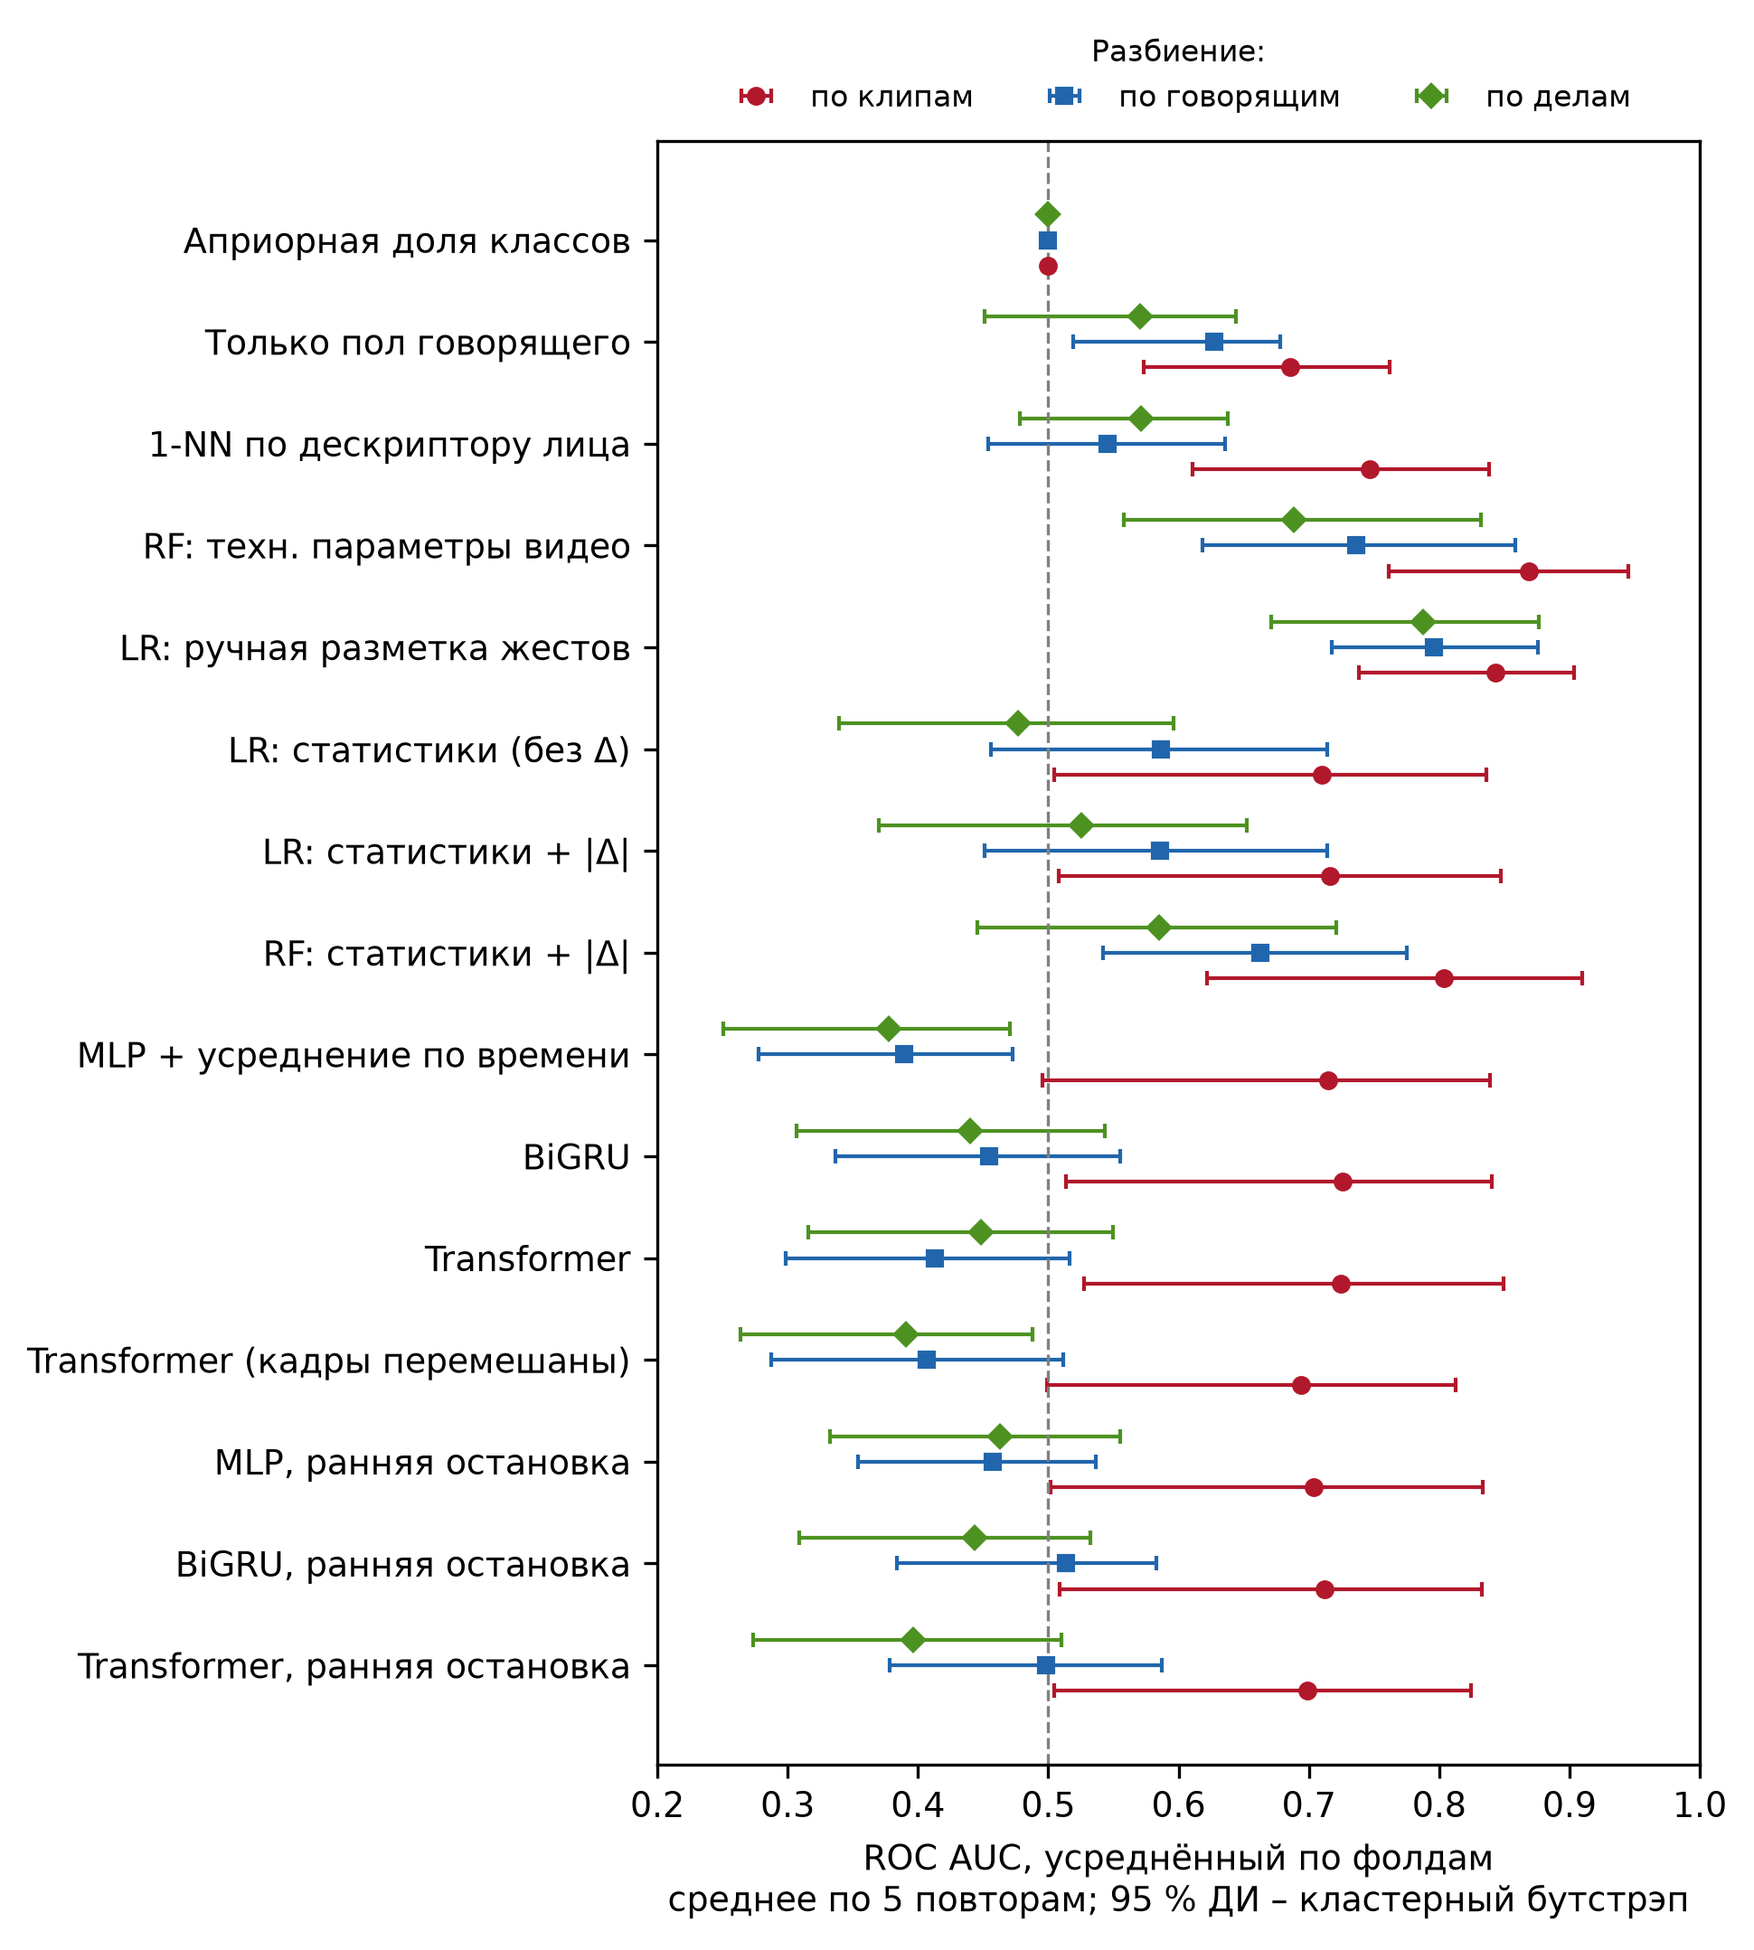
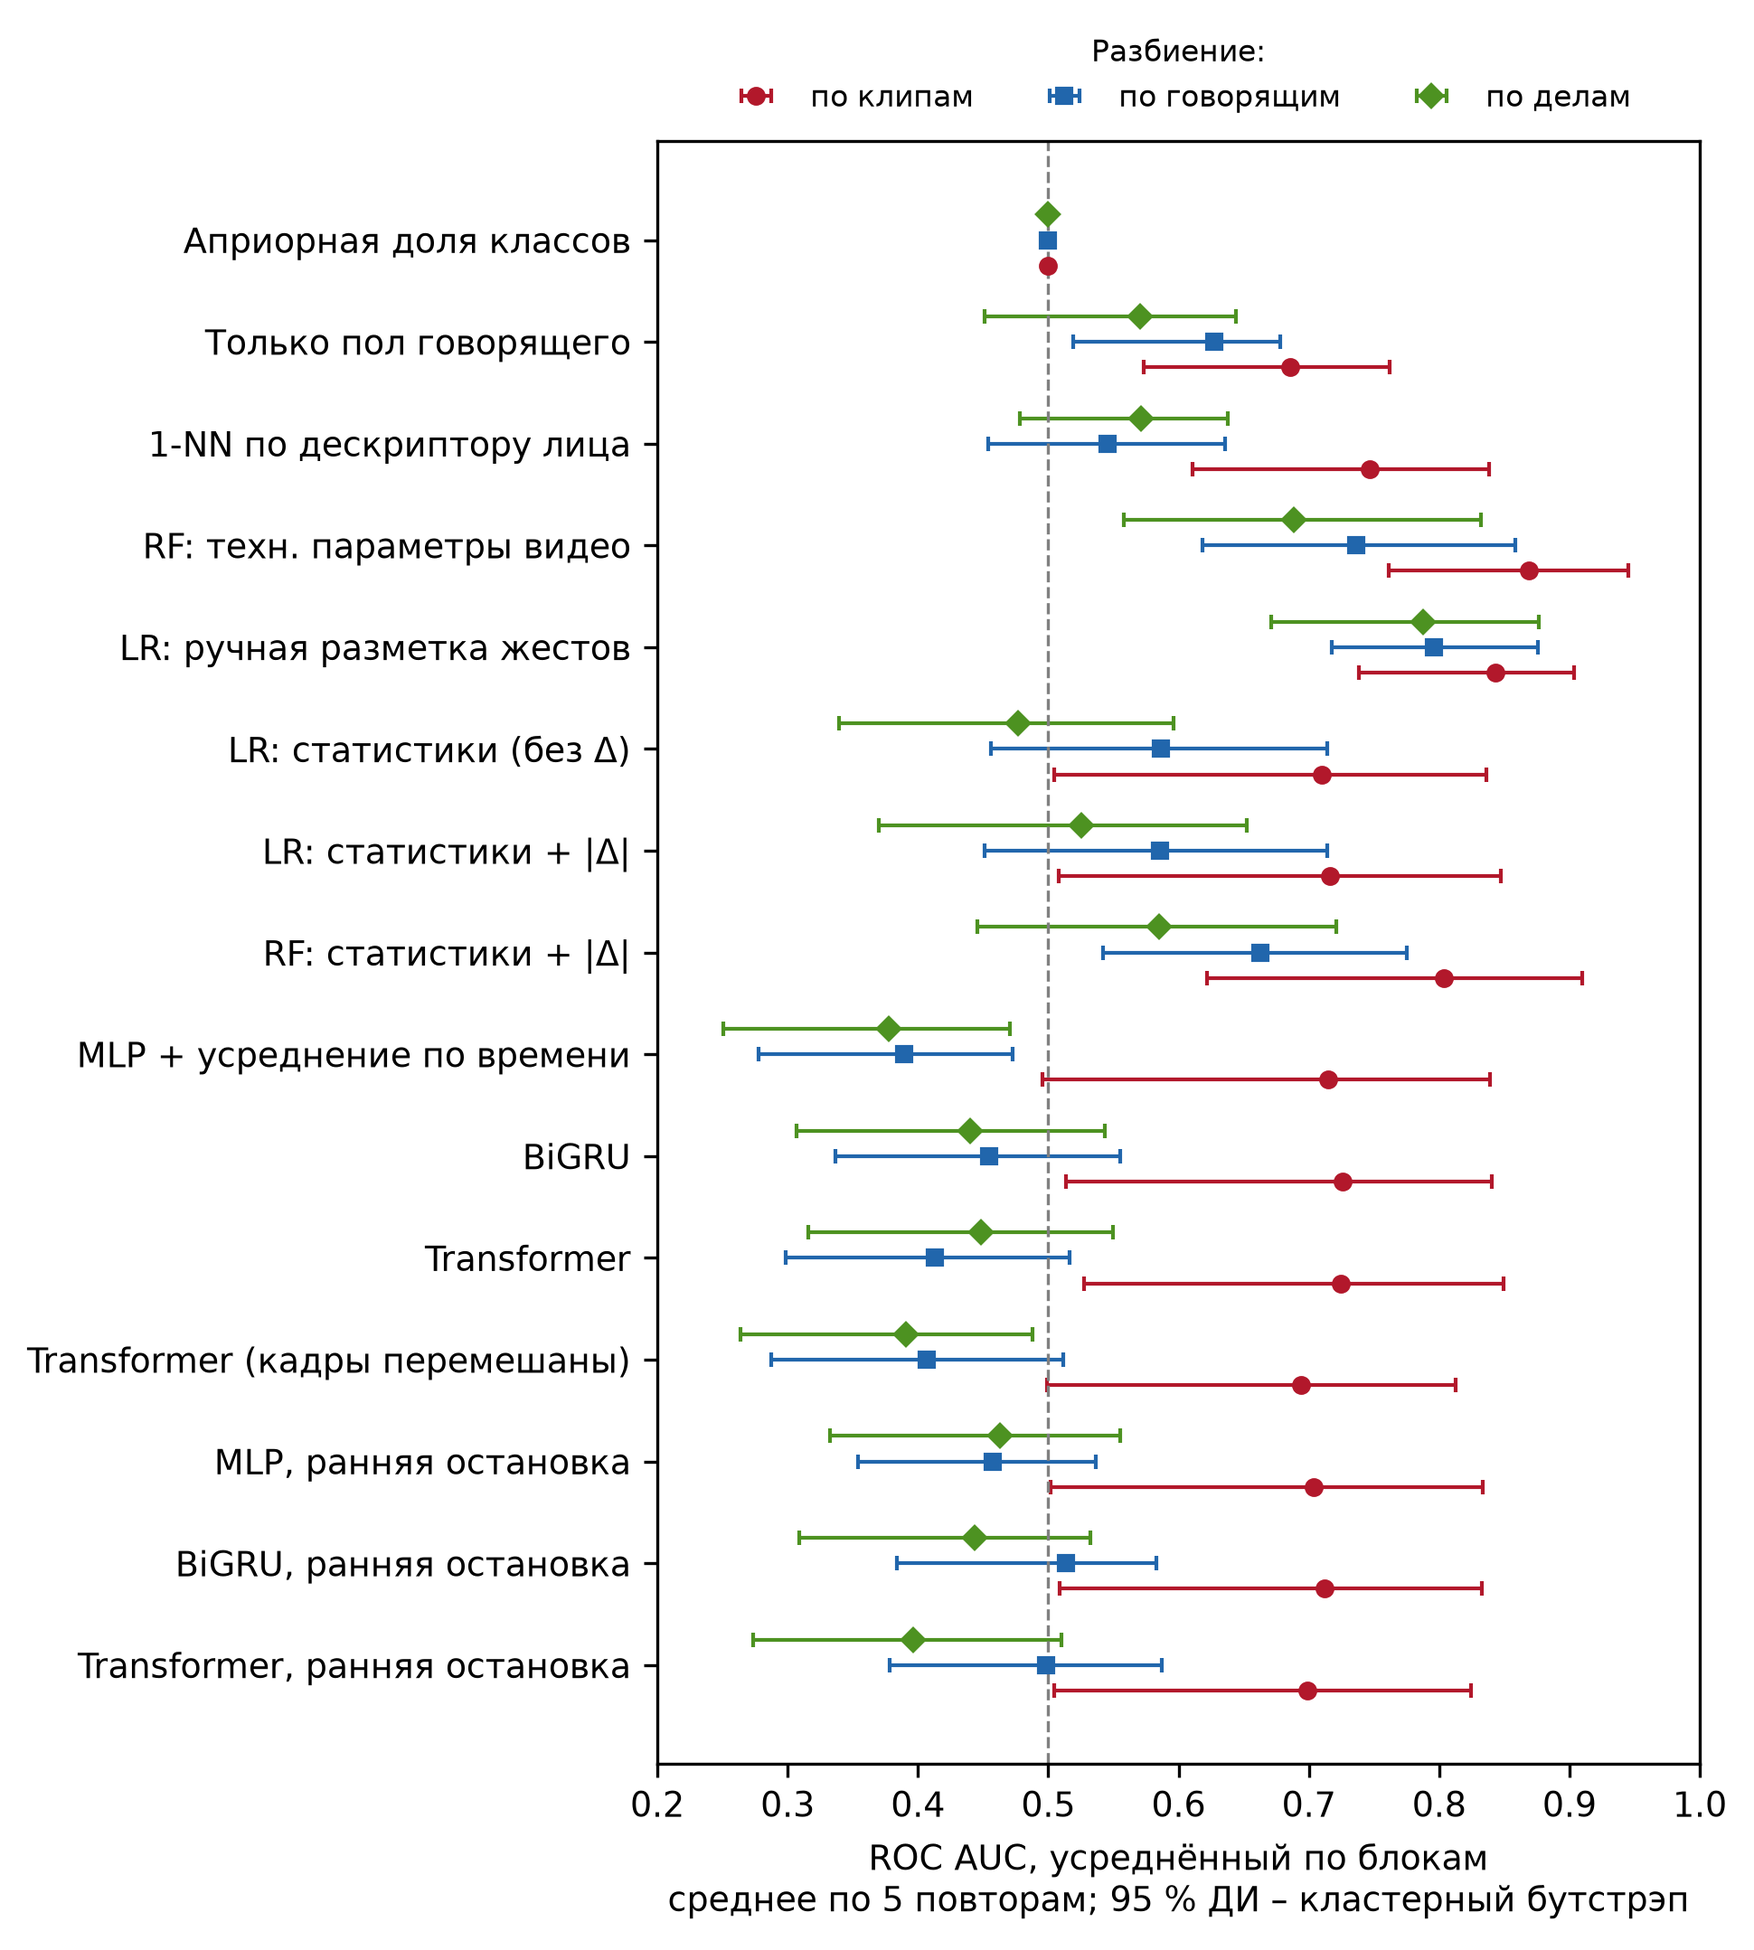
Use Russian term «блок» instead of «фолд» in docs and figure labels

Changed region(s): [[0.4948, 0.9008, 0.866, 0.9629], [0.433, 0.9008, 0.4639, 0.9318]]

diff --git a/src/figures.py b/src/figures.py
@@ -44,7 +44,7 @@ def main():
     tab = pd.read_csv(res / "aggregate/main_table.csv")
     plt.rcParams.update({"font.size": 9, "font.family": "DejaVu Sans"})
 
-    for metric, xlabel, chance in (("auc", "ROC AUC", 0.5), ("auc_fold", "ROC AUC, усреднённый по фолдам", 0.5),
+    for metric, xlabel, chance in (("auc", "ROC AUC", 0.5), ("auc_fold", "ROC AUC, усреднённый по блокам", 0.5),
                                    ("bacc", "Сбалансированная точность", 0.5)):
         models = [m for m in cfg["models"] if m in set(tab.model)]
         fig, ax = plt.subplots(figsize=(6.6, 0.42 * len(models) + 1.0))
@@ -84,7 +84,7 @@ def main():
         ax.axvline(0, color="grey", ls="--", lw=0.8)
         ax.set_yticks(yv)
         ax.set_yticklabels([MODEL_RU.get(m, m) for m in c.index])
-        ax.set_xlabel("ΔAUC (усреднённый по фолдам) = по клипам − по говорящим\n95 % ДИ, кластерный бутстрэп по говорящим")
+        ax.set_xlabel("ΔAUC (усреднённый по блокам) = по клипам − по говорящим\n95 % ДИ, кластерный бутстрэп по говорящим")
         fig.tight_layout()
         fig.savefig(out / "fig_leakage_inflation.png", dpi=300, bbox_inches="tight")
         plt.close(fig)

diff --git a/README.md b/README.md
@@ -22,8 +22,8 @@ predictions, metrics with cluster-bootstrap CIs, figures and logs. Documentation
 
 ## Основной результат
 
-ROC AUC, вычисленный внутри тестовых фолдов и усреднённый: среднее по 5 повторам 10-кратной
-кросс-валидации [95 % ДИ, кластерный бутстрэп по говорящим, B = 1000]. Полная таблица –
+ROC AUC, вычисленный внутри тестовых блоков и усреднённый: среднее по 5 повторам 10-кратной
+кросс-валидации (данные делятся на 10 блоков, каждый из которых по очереди служит тестовым) [95 % ДИ, кластерный бутстрэп по говорящим, B = 1000]. Полная таблица –
 `results/aggregate/main_table.md`, парные сравнения – `results/aggregate/paired_comparisons.md`.
 
 | Модель | По клипам | По говорящим | По делам |
@@ -39,11 +39,11 @@ ROC AUC, вычисленный внутри тестовых фолдов и у
 | Transformer | 0,72 [0,53; 0,85] | 0,41 [0,30; 0,52] | 0,45 [0,32; 0,55] |
 | Transformer, ранняя остановка | 0,70 [0,50; 0,82] | 0,50 [0,38; 0,59] | 0,40 [0,27; 0,51] |
 
-Кроме того, объединённый по фолдам (pooled) AUC при групповой кросс-валидации смещён вниз:
-модель, предсказывающая только долю классов в обучающей части фолда (`prior`), получает pooled
+Кроме того, объединённый по блокам (pooled) AUC при групповой кросс-валидации смещён вниз:
+модель, предсказывающая только долю классов в обучающей части блока (`prior`), получает pooled
 AUC 0,34 при разбиении по говорящим (`results/aggregate/main_table.md`, метрика `auc`).
 
-![ROC AUC, усреднённый по фолдам, для трёх протоколов](results/figures/fig_auc_fold_by_protocol.png)
+![ROC AUC, усреднённый по блокам, для трёх протоколов](results/figures/fig_auc_fold_by_protocol.png)
 
 ## Состав репозитория
 
@@ -57,12 +57,12 @@ metadata/                speaker_annotation.csv, target_face.csv, clips.csv
 splits/                  15 сохранённых разбиений (3 протокола × 5 зёрен) + summary.csv
 results/predictions/     out-of-fold вероятности для каждого клипа, модели, протокола и зерна
 results/metrics_raw.csv  метрики каждого повтора
-results/aggregate/       средние, 95 % ДИ, парные сравнения, декомпозиция по парам, сводки по фолдам
+results/aggregate/       средние, 95 % ДИ, парные сравнения, декомпозиция по парам, сводки по блокам
                          и ранней остановке
 results/audit/           аудит корпуса: структура, связь параметров записи с меткой, идентифицируемость
 results/figures/         графики
 results/model_params.json число параметров нейросетей
-logs/                    логи извлечения признаков, обучения по фолдам, агрегации
+logs/                    логи извлечения признаков, обучения по блокам, агрегации
 checksums.sha256         контрольные суммы архива RLT и моделей
 requirements.lock.txt    точные версии пакетов
 run_all.sh               полный прогон
@@ -80,7 +80,7 @@ run_all.sh               полный прогон
 | `data.py` | загрузка признаков, статистики кадров, ручная разметка жестов, параметры видео |
 | `models.py` | MLP с усреднением по времени, BiGRU, Transformer-энкодер; обучение, ранняя остановка |
 | `run_experiment.py` | все модели × протоколы × повторы, out-of-fold предсказания |
-| `aggregate.py` | средние, AUC внутри фолдов, кластерный бутстрэп, парные сравнения |
+| `aggregate.py` | средние, AUC внутри блоков, кластерный бутстрэп, парные сравнения |
 | `pair_analysis.py` | разведочная декомпозиция AUC на пары внутри и между говорящими |
 | `count_params.py` | число обучаемых параметров нейросетей |
 | `figures.py` | графики из `results/` |
@@ -142,5 +142,5 @@ bash run_all.sh
 **Детерминированность.** Полный прогон с нуля воспроизвёл побитово файлы `results/predictions/`,
 `results/aggregate/`, разбиения и метаданные; различаются только временные метки в логах и
 порядок строк в `metrics_raw.csv`. Обучение нейросетей идёт на CPU в один поток, зёрна заданы для
-каждого фолда (`seed * 1000 + fold`). Варианты с ранней остановкой (`*_es`) добавлены отдельным
+каждого блока (`seed * 1000 + fold`). Варианты с ранней остановкой (`*_es`) добавлены отдельным
 запуском; предсказания исходных моделей при этом воспроизводятся бит в бит.

diff --git a/DATA_AND_PROTOCOL.md b/DATA_AND_PROTOCOL.md
@@ -76,11 +76,11 @@ Project объединены в одну группу.
 
 - Для каждого протокола используются 5 зёрен (`seeds: [0..4]`). Разбиения сохранены в
   `splits/<protocol>_seed<k>.json`.
-- `splits/summary.csv` показывает число групп, попадающих в несколько фолдов. Для `speaker`
+- `splits/summary.csv` показывает число групп, попадающих в несколько блоков. Для `speaker`
   это 0 говорящих, для `case` — 0 говорящих и 0 дел. Для `clip` в среднем 14,4 говорящего
-  и 17,8 дела разделены между фолдами, то есть subject leakage присутствует по построению.
+  и 17,8 дела разделены между блоками, то есть subject leakage присутствует по построению.
 - Внутренняя кросс-валидация для подбора C логистической регрессии использует тот же тип
-  разбиения, что и внешняя: 5 фолдов, группы — внутри обучающей части.
+  разбиения, что и внешняя: 5 блоков, группы — внутри обучающей части.
 
 ## Почему разбиение по говорящим недостаточно
 
@@ -91,6 +91,6 @@ Project объединены в одну группу.
 - частота кадров у разных классов различается: p ≈ 4,3·10⁻⁶.
 
 Случайный лес только по разрешению, частоте кадров, длительности и битрейту даёт
-AUC (внутри фолдов) 0,74 при разбиении по говорящим и 0,69 при разбиении по делам. Поэтому
+AUC (внутри блоков) 0,74 при разбиении по говорящим и 0,69 при разбиении по делам. Поэтому
 разбиение `case` — минимально необходимое, а результаты по всем протоколам следует
 сопоставлять с аудиторскими моделями.
